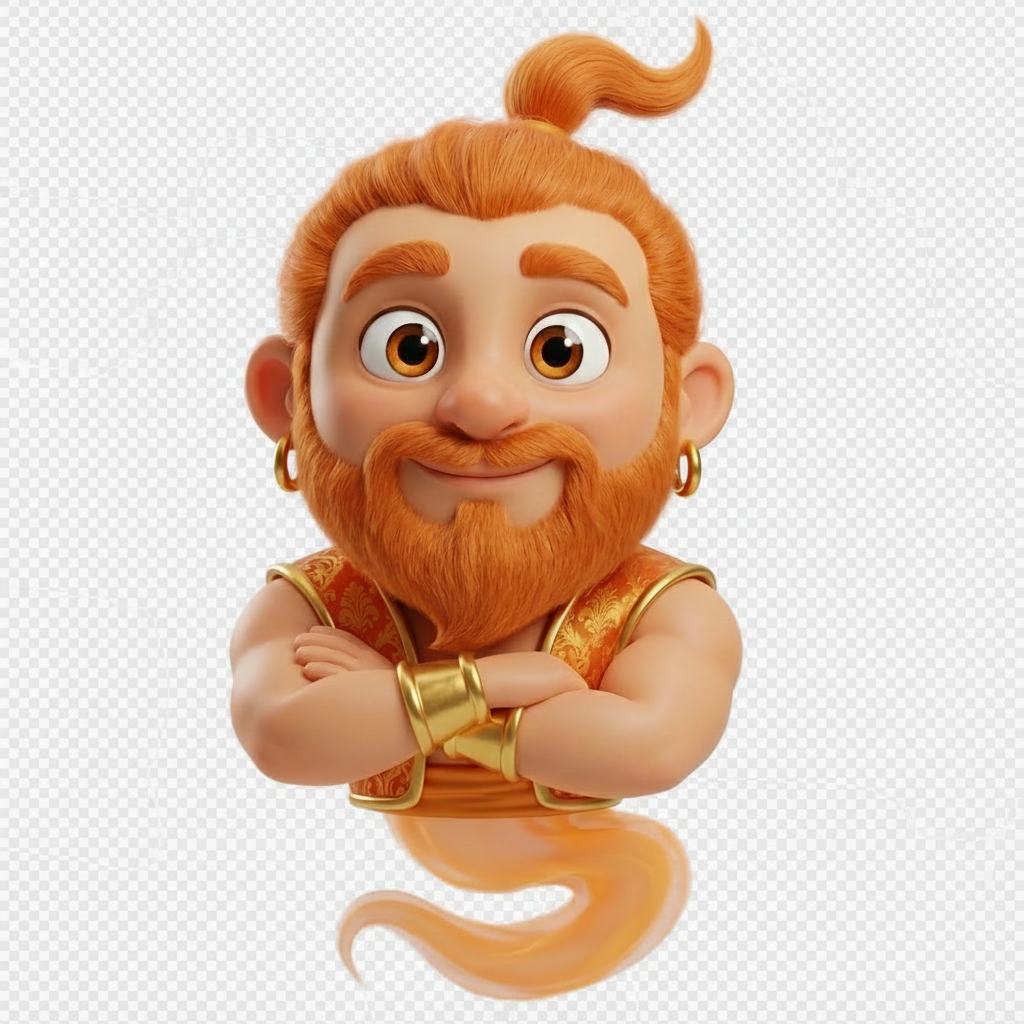
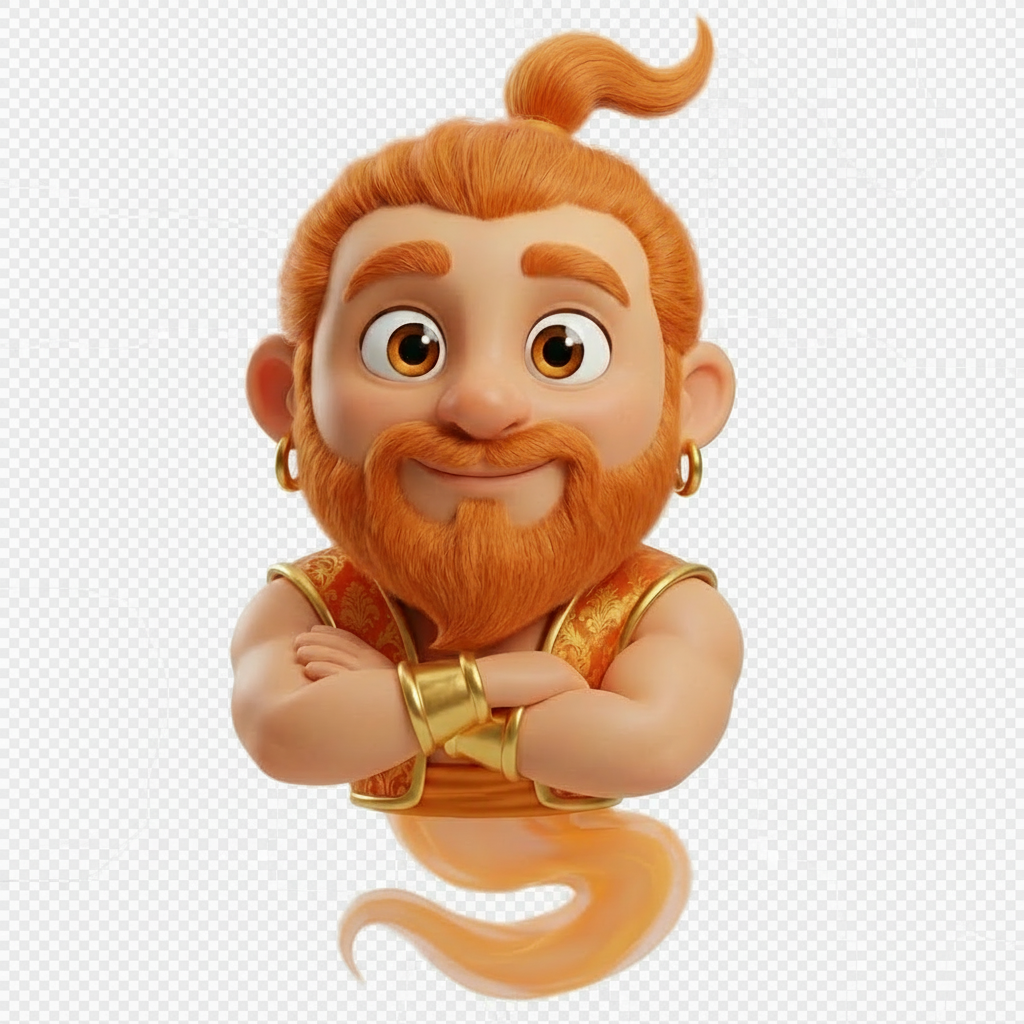
Changes

diff --git a/src/pages/LandingPage.tsx b/src/pages/LandingPage.tsx
@@ -4,7 +4,7 @@ import { useLanguage } from "@/hooks/useLanguage";
 import { Button } from "@/components/ui/button";
 import { Play, Star, Menu, X, Check, Loader2 } from "lucide-react";
 import geniusLogo from "@/assets/genius.png";
-import genieMascot from "@/assets/genie-mascot-nobg.png";
+import genieMascot from "@/assets/genie-dark.png";
 import { supabase } from "@/integrations/supabase/client";
 
 /* ─── Scroll fade-in observer ─── */
@@ -177,16 +177,17 @@ export default function LandingPage() {
           </div>
 
           {/* Mascot */}
-          <div className="flex-1 flex justify-center md:justify-end max-w-md w-full relative">
-            <div
-              className="absolute inset-0 rounded-full"
-              style={{ background: "radial-gradient(circle, hsl(228 47% 6% / 0) 30%, hsl(228 47% 6%) 70%)", pointerEvents: "none" }}
-            />
+          <div className="flex-1 flex justify-center md:justify-end max-w-md w-full">
             <img
               src={genieMascot}
               alt="Genius Chatbot Genie"
-              className="w-72 sm:w-96 relative z-10"
-              style={{ animation: "floatMascot 4s ease-in-out infinite" }}
+              className="w-72 sm:w-96"
+              style={{
+                animation: "floatMascot 4s ease-in-out infinite",
+                filter: "drop-shadow(0 0 30px hsl(349 78% 62% / 0.25))",
+                mask: "radial-gradient(ellipse 80% 80% at center, black 50%, transparent 75%)",
+                WebkitMask: "radial-gradient(ellipse 80% 80% at center, black 50%, transparent 75%)",
+              }}
             />
           </div>
         </div>
